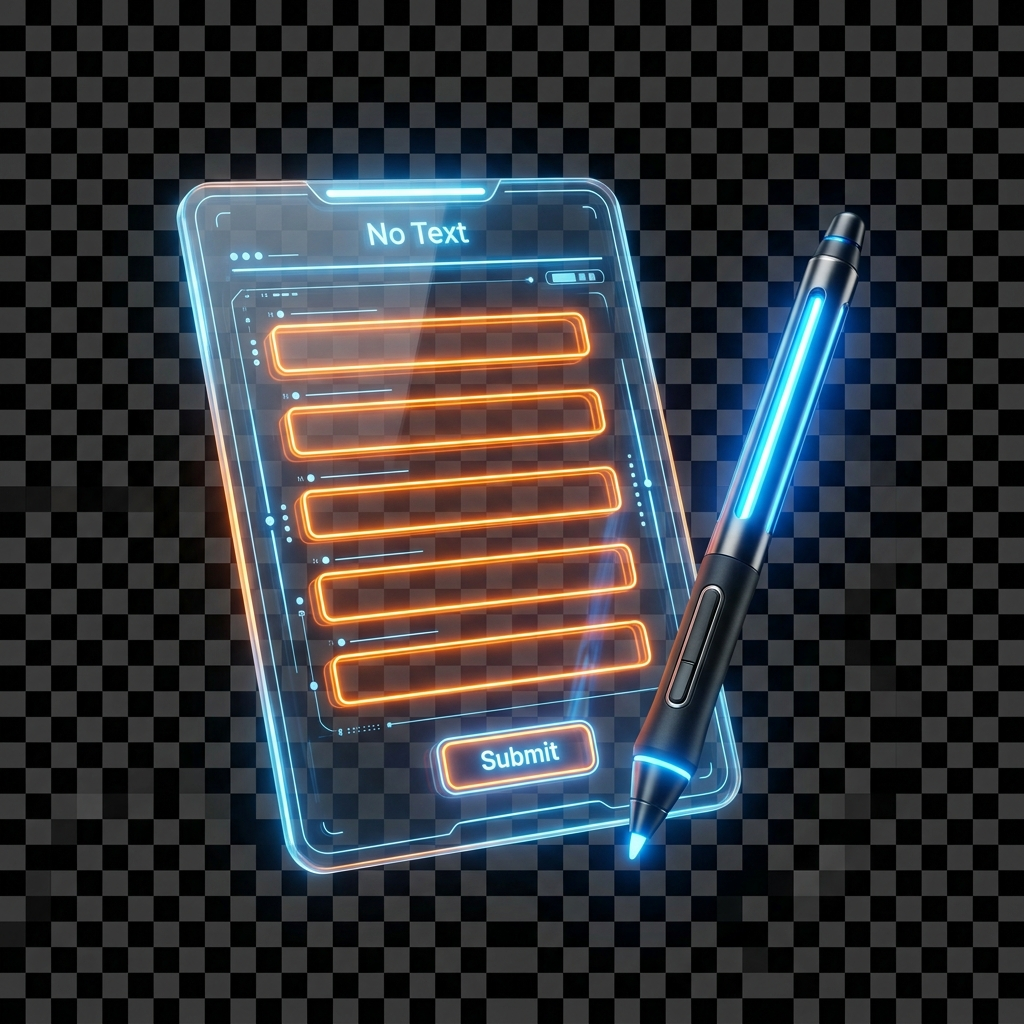
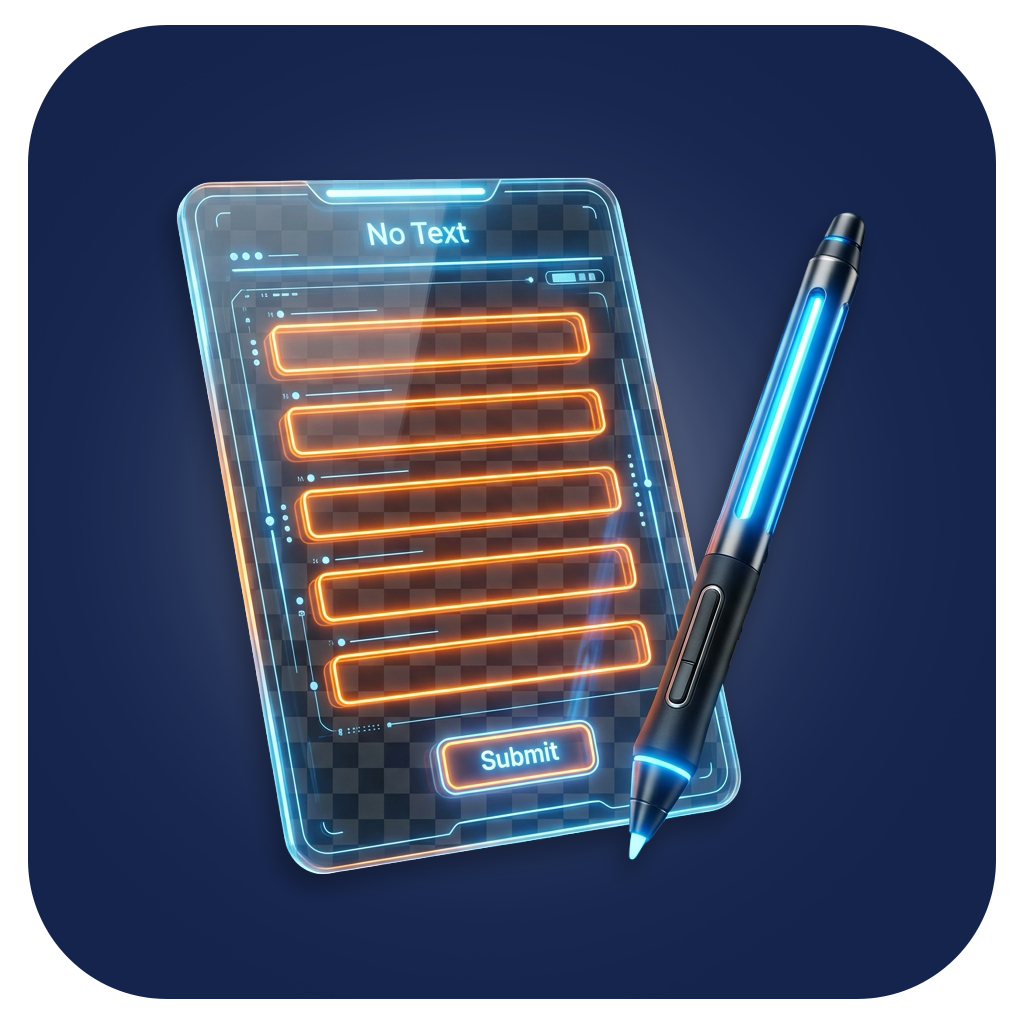
Initial commit

diff --git a/src/components/home/BookingSteps.tsx b/src/components/home/BookingSteps.tsx
@@ -96,17 +96,17 @@ export default function BookingSteps({ onNavigate, isRTL = true }: BookingStepsP
       className="min-h-screen relative overflow-hidden"
       dir={isRTL ? 'rtl' : 'ltr'}
       style={{
-        background: 'linear-gradient(135deg, #020617 0%, #0a1628 40%, #0d1f3c 70%, #070d1a 100%)',
+        background: 'linear-gradient(to bottom, #f8fafc 0%, #eff6ff 100%)',
         fontFamily: "'Cairo', sans-serif",
       }}
     >
       {/* Animated background grid */}
       <div
-        className="absolute inset-0 opacity-[0.06]"
+        className="absolute inset-0 opacity-[0.03]"
         style={{
           backgroundImage: `
-            linear-gradient(rgba(249,115,22,0.8) 1px, transparent 1px),
-            linear-gradient(90deg, rgba(249,115,22,0.8) 1px, transparent 1px)
+            linear-gradient(rgba(37,99,235,0.8) 1px, transparent 1px),
+            linear-gradient(90deg, rgba(37,99,235,0.8) 1px, transparent 1px)
           `,
           backgroundSize: '60px 60px',
         }}
@@ -133,26 +133,26 @@ export default function BookingSteps({ onNavigate, isRTL = true }: BookingStepsP
           </div>
 
           <h1
-            className="text-5xl lg:text-7xl font-black text-white mb-6 leading-tight"
+            className="text-5xl lg:text-7xl font-black text-slate-900 mb-6 leading-tight"
           >
             {isRTL ? (
               <>
                 كيف تحجز{' '}
-                <span className="bg-gradient-to-r from-blue-500 to-amber-300 bg-clip-text text-transparent">
+                <span className="bg-gradient-to-r from-blue-600 to-blue-500 bg-clip-text text-transparent">
                   بوثك؟
                 </span>
               </>
             ) : (
               <>
                 How to{' '}
-                <span className="bg-gradient-to-r from-blue-500 to-amber-300 bg-clip-text text-transparent">
+                <span className="bg-gradient-to-r from-blue-600 to-blue-500 bg-clip-text text-transparent">
                   Book Your Booth?
                 </span>
               </>
             )}
           </h1>
 
-          <p className="text-lg text-white/60 max-w-2xl mx-auto leading-relaxed">
+          <p className="text-lg text-slate-600 max-w-2xl mx-auto leading-relaxed">
             {isRTL
               ? 'عملية احترافية من خمس خطوات مصممة لتمنحك تجربة حجز عالمية المستوى — سريعة، آمنة، ورقمية بالكامل.'
               : 'A professional 5-step process designed to give you a world-class booking experience — fast, secure, and fully digital.'}
@@ -184,14 +184,11 @@ export default function BookingSteps({ onNavigate, isRTL = true }: BookingStepsP
                 key={step.number}
                 variants={cardVariants}
                 whileHover={{ scale: 1.01, transition: { duration: 0.2 } }}
-                className={`relative flex flex-col ${isEven ? 'lg:flex-row' : 'lg:flex-row-reverse'} items-center gap-8 lg:gap-16 p-8 rounded-3xl border border-white/[0.08] bg-white/[0.03] backdrop-blur-sm hover:border-white/20 transition-all duration-500`}
-                style={{
-                  boxShadow: `0 0 60px -20px rgba(0,0,0,0.5), inset 0 1px 0 rgba(255,255,255,0.05)`,
-                }}
+                className={`relative flex flex-col ${isEven ? 'lg:flex-row' : 'lg:flex-row-reverse'} items-center gap-8 lg:gap-16 p-8 rounded-3xl border border-slate-200 bg-white shadow-sm hover:border-blue-200 hover:shadow-xl transition-all duration-500`}
               >
                 {/* Step Number - Background */}
                 <div
-                  className="absolute top-4 opacity-5 font-black text-[120px] leading-none pointer-events-none select-none"
+                  className="absolute top-4 opacity-[0.03] text-slate-900 font-black text-[120px] leading-none pointer-events-none select-none"
                   style={{ [isRTL ? 'right' : 'left']: isEven ? '1rem' : undefined, [isRTL ? 'left' : 'right']: !isEven ? '1rem' : undefined }}
                 >
                   {step.number}
@@ -226,7 +223,7 @@ export default function BookingSteps({ onNavigate, isRTL = true }: BookingStepsP
                     {isRTL ? `الخطوة ${step.number}` : `Step ${step.number}`}
                   </span>
 
-                  <h2 className="text-3xl lg:text-4xl font-black text-white mb-4 leading-tight">
+                  <h2 className="text-3xl lg:text-4xl font-black text-slate-900 mb-4 leading-tight">
                     {isRTL ? step.titleAr : step.titleEn}
                   </h2>
 
@@ -237,7 +234,7 @@ export default function BookingSteps({ onNavigate, isRTL = true }: BookingStepsP
                     {isRTL ? step.titleEn : step.titleAr}
                   </p>
 
-                  <p className="text-white/60 text-lg leading-relaxed max-w-xl">
+                  <p className="text-slate-600 text-lg leading-relaxed max-w-xl">
                     {isRTL ? step.descAr : step.descEn}
                   </p>
 
@@ -250,8 +247,8 @@ export default function BookingSteps({ onNavigate, isRTL = true }: BookingStepsP
                           i === index
                             ? `w-8 bg-gradient-to-r ${step.color}`
                             : i < index
-                            ? 'w-4 bg-white/40'
-                            : 'w-4 bg-white/10'
+                            ? 'w-4 bg-blue-300'
+                            : 'w-4 bg-slate-200'
                         }`}
                       />
                     ))}
@@ -264,17 +261,18 @@ export default function BookingSteps({ onNavigate, isRTL = true }: BookingStepsP
 
         {/* Final CTA Banner */}
         <motion.div
-          initial={{ opacity: 0, y: 40 }}
-          whileInView={{ opacity: 1, y: 0 }}
-          viewport={{ once: true }}
-          transition={{ duration: 0.8, delay: 0.2 }}
-          className="mt-20 text-center p-12 rounded-3xl border border-blue-500/20 bg-gradient-to-br from-blue-600/10 to-blue-600/5 backdrop-blur-sm"
+           initial={{ opacity: 0, y: 40 }}
+           whileInView={{ opacity: 1, y: 0 }}
+           viewport={{ once: true }}
+           transition={{ duration: 0.8, delay: 0.2 }}
+           className="mt-20 text-center p-12 rounded-3xl border border-blue-100 bg-white shadow-xl relative overflow-hidden"
         >
+          <div className="absolute inset-0 bg-gradient-to-br from-blue-50 to-white -z-10" />
           <div className="text-5xl mb-4">🏆</div>
-          <h3 className="text-3xl font-black text-white mb-4">
+          <h3 className="text-3xl font-black text-slate-900 mb-4">
             {isRTL ? 'جاهز لتأمين مكانك؟' : 'Ready to Secure Your Spot?'}
           </h3>
-          <p className="text-white/60 text-lg mb-8 max-w-xl mx-auto">
+          <p className="text-slate-600 text-lg mb-8 max-w-xl mx-auto">
             {isRTL
               ? 'انضم إلى أكثر من 500 شركة رائدة في القطاع. الأماكن محدودة، لا تفوّت الفرصة.'
               : 'Join over 500 leading companies in the sector. Spaces are limited — don\'t miss the opportunity.'}

diff --git a/src/components/home/HomeView.tsx b/src/components/home/HomeView.tsx
@@ -79,15 +79,11 @@ export default function HomeView({ onNavigate }: HomeViewProps) {
             <div className="flex-1 w-full relative">
                <div className="relative w-full aspect-square md:aspect-[4/3] lg:aspect-square rounded-[3rem] overflow-hidden border-8 border-white bg-white shadow-xl group">
                   <div className="absolute inset-0 bg-gradient-to-t from-slate-900/40 to-transparent z-10 opacity-10" />
-                  {/* PLEASE ENSURE YOU UPLOAD YOUR BOOTH IMAGE TO public/hero-booth.jpg */}
+                  {/* Generated Booth Image */}
                   <img 
-                    src="/hero-booth.jpg" 
+                    src="/images/modern_booth.png" 
                     alt="معرض البوثات والمقاولين" 
                     className="w-full h-full object-cover transition-transform duration-700 group-hover:scale-110"
-                    onError={(e) => {
-                      // Fallback placeholder gradient if image is not uploaded yet
-                      (e.target as HTMLImageElement).src = "https://images.unsplash.com/photo-1540575467063-178a50c2df87?q=80&w=1200&auto=format&fit=crop";
-                    }}
                   />
                   <div className="absolute bottom-6 left-6 right-6 z-20 bg-white/90 backdrop-blur-md border border-white p-6 rounded-3xl shadow-lg">
                      <div className="flex items-center gap-4">
